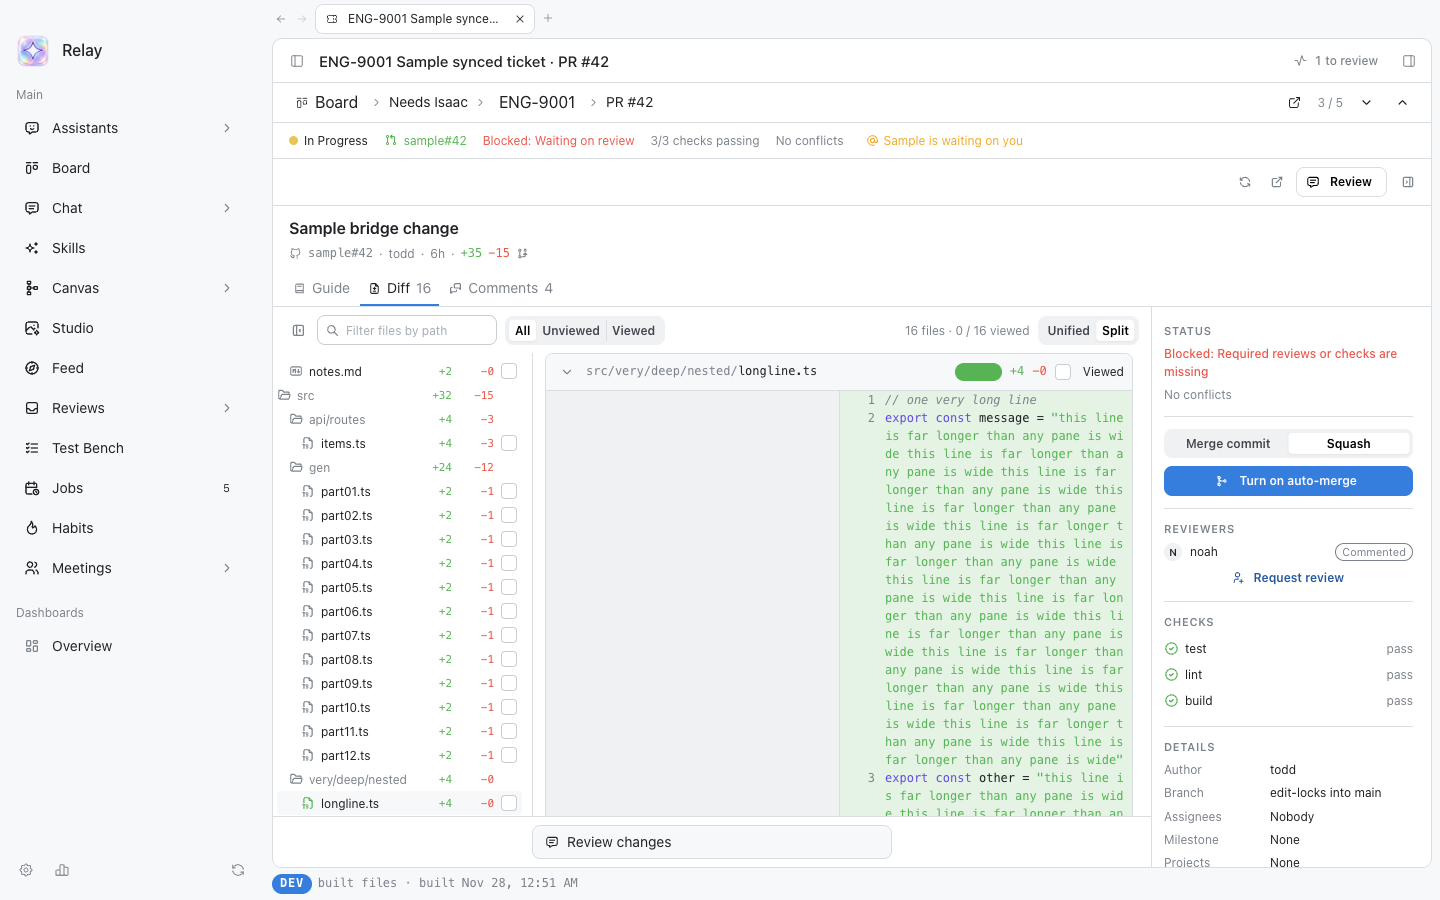
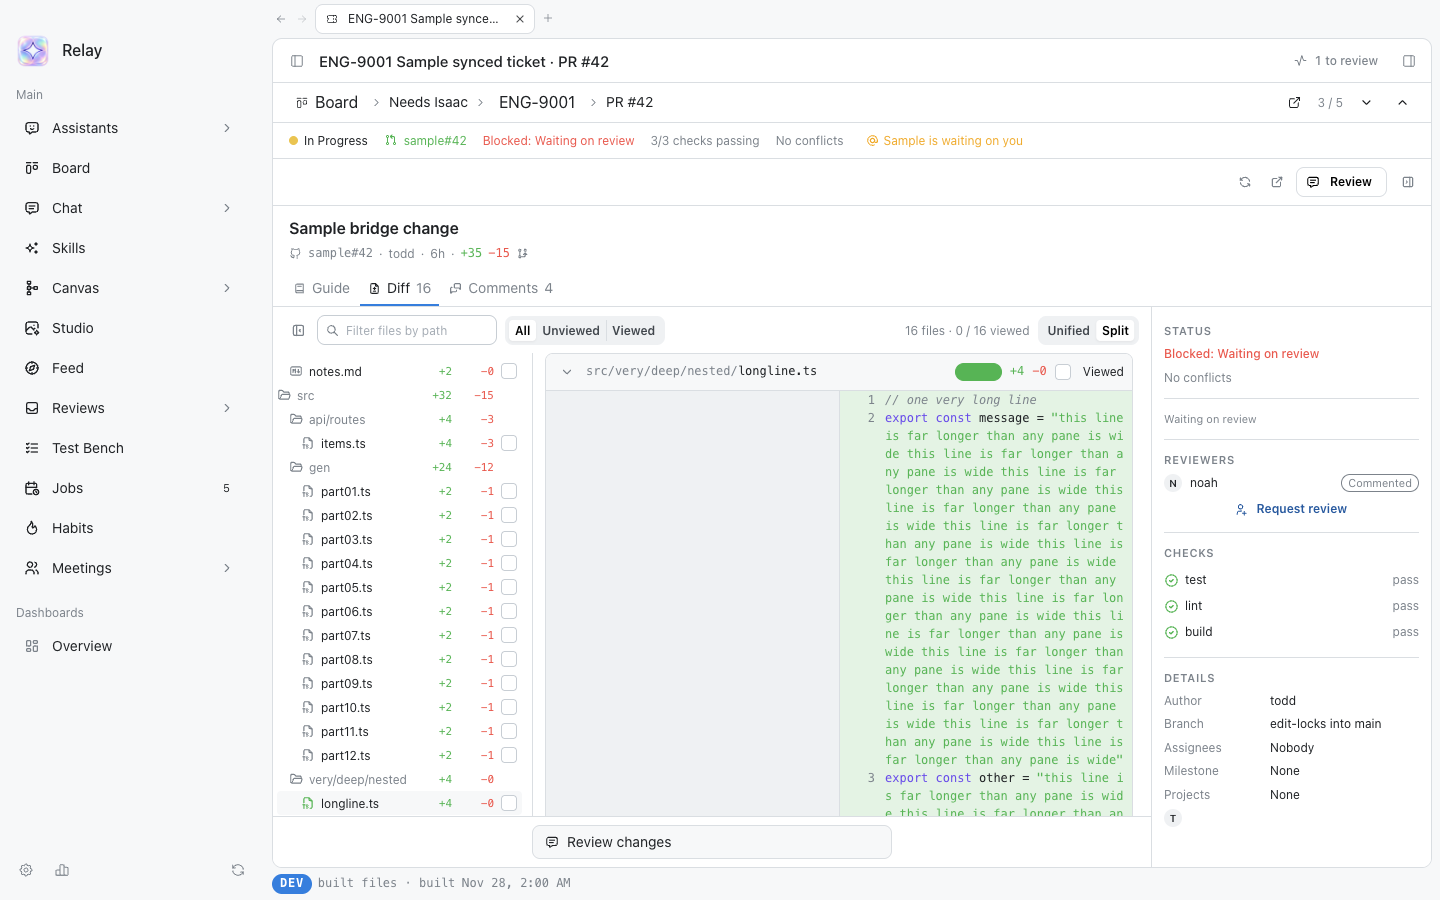
test(e2e): Board proof retaken on the round-5 fixes; the merge box gives the status line's reason
- board-proof: a blocked PR shows the merge box's reason (no auto-merge confirm shot any more), the PR read carries REVIEW_REQUIRED; NOTES updated.
- pr-status: the no-merge reason for a merge state GitHub won't merge uses the status line's own blocker words.

diff --git a/apps/desktop/e2e/board-proof.spec.ts b/apps/desktop/e2e/board-proof.spec.ts
@@ -58,6 +58,7 @@ function proofPr(): Json {
     number: PR_REF.number,
     url: `https://github.example.test/${PR_REF.repo}/pull/${PR_REF.number}`,
     title: 'Sample bridge change',
+    reviewDecision: 'REVIEW_REQUIRED',
     headSha: HEAD,
     checks,
     actions: {
@@ -390,16 +391,10 @@ test('Board, ticket and PR', async ({ app, shell }) => {
     await expect(shell.locator(sel(`review-tab-${t}`))).toBeVisible()
   const rail = shell.locator(sel('review-rail'))
   await expect(rail.locator(sel('pr-status-line'))).toContainText('Blocked')
-  await expect(rail.locator(sel('pr-merge-start'))).toBeVisible()
+  // A blocked PR offers no merge (only an immediate, head-bound merge exists): the box says why.
+  await expect(rail.locator(sel('pr-merge-none'))).toBeVisible()
+  await expect(rail.locator(sel('pr-merge-start'))).toHaveCount(0)
   await shot(shell, 'pr')
-
-  // Merge confirm: names the head and the outcome; Cancel writes nothing.
-  await rail.locator(sel('pr-merge-start')).click()
-  await expect(shell.locator(sel('pr-merge-Head'))).toHaveText(HEAD.slice(0, 7))
-  await expect(shell.locator(sel('pr-merge-confirm'))).toBeVisible()
-  await shot(shell, 'merge-confirm')
-  await shell.getByRole('button', { name: 'Cancel' }).click()
-  await expect(shell.locator(sel('pr-merge-confirm'))).toHaveCount(0)
 
   // Diff: the file tree and the review thread on its line (the first file), then the long line
   // wrapped (the list jumps to its file from the tree; too far down to share one window).

diff --git a/apps/desktop/src/renderer/reviews/review-tabs.test.tsx b/apps/desktop/src/renderer/reviews/review-tabs.test.tsx
@@ -507,12 +507,11 @@ describe('PrView', () => {
     expect(calls('reviews.prCommit')).toHaveLength(0)
   })
 
-  it('never offers auto-merge: a PR GitHub won’t merge right now shows why, with no button', () => {
+  it('never offers auto-merge: a PR GitHub won’t merge right now shows why (the status line’s words), with no button', () => {
     showPr(prOf({ actions: { ...ACTIONS, mergeStateStatus: 'BLOCKED' } }))
     expect(screen.queryByTestId('pr-merge-start')).toBeNull()
-    expect(screen.getByTestId('pr-merge-none')).toHaveTextContent(
-      'Required reviews or checks are missing',
-    )
+    expect(screen.getByTestId('pr-status-line')).toHaveTextContent('Blocked: 1 failing check')
+    expect(screen.getByTestId('pr-merge-none')).toHaveTextContent('1 failing check')
   })
 
   it('hides merge, re-run, request review and reactions without the host’s actions facts', () => {

diff --git a/apps/desktop/src/renderer/tickets/pr-status.ts b/apps/desktop/src/renderer/tickets/pr-status.ts
@@ -237,11 +237,14 @@ const NO_MERGE: ReadonlyArray<(pr: ReviewPr, a: Actions) => string | null> = [
     a.mergeStateStatus === 'DIRTY' ? `Conflicts with ${pr.base}: resolve them first` : null,
   (_, a) =>
     a.mergeQueue.required ? 'This branch merges through a merge queue: add it on GitHub' : null,
-  (_, a) => {
+  (pr, a) => {
     const s = a.mergeStateStatus
     if (MERGES_NOW[s]) return null
+    // The status line's own words (a required review it names), so the box never says it twice differently.
     return (
-      MERGE_STATE_WORDS[s]?.blocked ?? MERGE_STATE_WORDS[s]?.note ?? 'GitHub won’t merge it yet'
+      prStatusOf(prSignalsOfReview(pr)).blocked ??
+      MERGE_STATE_WORDS[s]?.note ??
+      'GitHub won’t merge it yet'
     )
   },
 ]

diff --git a/proof/linear-board/NOTES.md b/proof/linear-board/NOTES.md
@@ -1,7 +1,7 @@
 # Linear-style Board, ticket page and PR page (PR B): before/after proof
 
 - Baseline: `61a5b2e6` (origin/main; app code untouched; only the spec, `e2e/helpers/fake-relay-host.ts`, `e2e/fixtures/tickets/` and `e2e/fixtures/reviews-diff/` were copied in for the run, then removed with `git checkout -- . && git clean -fd apps/desktop/e2e`)
-- Head: after shots taken at `27f45691` (branch `eva/board-desktop`)
+- Head: after shots retaken on the round-5 fixes (branch `eva/board-desktop`, on `main` after #18/#19 merged)
 - Spec: `apps/desktop/e2e/board-proof.spec.ts`, the same file in both phases (`PROOF_PHASE=before|after`, default after; `PROOF_DIR` overrides the root `proof/linear-board`). Assertions that only hold on the branch, and the after-only shots, run only in `after`; the Timeline shots skip on this branch (they belong to the Timeline PR).
 - Mode: Relay Desktop in remote mode (paired `relay-remote.json`) against `FakeRelayHost`, plus a fixture Eva root (`makeEvaFixture`) with five ledger work items (`ENG-9001`..`ENG-9004`, `relay-demo`). The host answers `tickets.*` from `e2e/fixtures/tickets` (`tickets` and `tickets.writes` in after; a fallback test drops `tickets`), `reviews.req` from `e2e/fixtures/reviews-diff` with its PR served as the ticket's PR `example/sample#42` (`reviews.actions` in after), and each ticket's Reviews `linear` read (what the baseline's side panel shows) built from the same board tickets. Every write lands on the fake host's gate; the spec asserts the only writes are the inline comment's `prepare` + `commit` and no PR write. No GitHub, Linear, Claude or omp.
 - Clock: `EVAOS_NOW=2026-11-27T18:00:00Z`, renderer clock fixed to the same instant (Playwright `clock.setFixedTime`); fixture dates relative to it
@@ -18,22 +18,21 @@ Run (before): the same in a `61a5b2e6` worktree with the four paths above copied
 |---|---|---|
 | `board.png` | Today's agent board from the ledger: Queued, Working, Needs Isaac, In review columns, cards with a stage pill; filters for agents, workspaces, grouping, stale. | Linear-style board: synced tickets merged with ledger items (5 items), `Waiting on you 1` filter, `Synced 2m ago` + Refresh, cards with priority, project, label, PR `#42` chips and the `Waiting on you · Sample · 3h` chip; Done hidden. |
 | `ticket.png` | Clicking ENG-9001 opens the side panel over the board: agent strip, Reviews' Linear read, comments, composer and the PR's Conversation tab squeezed below. | The centered ticket page: crumbs `Board > Needs Isaac > ENG-9001`, summary card (waiting reply, summary, footer), description, Resources, Activity, composer; sidebar with Properties, Labels, Project, Pull requests, Related. |
-| `pr.png` | Reviews Detail for `example/sample#42` with Conversation / Files / Checks / Guide and a reviewers/labels rail; no merge. | PR page inside the ticket: status strip, Guide / Diff / Comments (review threads inline), sidebar with status, merge method + `Turn on auto-merge`, reviewers + Request review, checks by run, details. |
+| `pr.png` | Reviews Detail for `example/sample#42` with Conversation / Files / Checks / Guide and a reviewers/labels rail; no merge. | PR page inside the ticket: status strip, Guide / Diff / Comments (review threads inline), sidebar with status `Blocked: Waiting on review` (the same words as the ticket strip) and, since the PR can't merge now, the merge box's reason instead of a button (Relay only merges now, bound to the head; no auto-merge or merge queue), reviewers + Request review, checks by run, details. |
 | `waiting-handled-focus.png` | (none) | Tab from the Waiting chip lands on Mark as handled; its focus ring shows (Settings > Theme > Focus ring switched to `auto` for this shot, since Relay starts with rings off). |
 | `ticket-sidebar-collapsed.png` | (none) | Sidebar folded: the status strip (`In Progress`, `sample#42`, `Blocked: Waiting on review`, `3/3 checks passing`, `No conflicts`, `Sample is waiting on you`) and a wider centered column. |
 | `pr-sidebar-collapsed.png` | (none) | PR sidebar folded: the ticket's strip carries the PR status; Comments take the full width. |
 | `pr-diff-tree.png` | (none) | Diff tab: compacted file tree with +/- and Viewed boxes, split diff, noah's thread (with image) under line 3 of `items.ts`. |
 | `pr-diff-longline.png` | (none) | After clicking `longline.ts` in the tree, the list jumps to it; the long lines wrap with no sideways scroll, tabs and tree stay in view. |
-| `merge-confirm.png` | (none) | `Turn on auto-merge?` names `example/sample#42`, head `0123456`, base `main`, method Squash; Cancel writes nothing. Relay draws modals in its overlay layer, so the shot is the dialog alone. |
 | `inline-thread.png` | (none) | ENG-9101: `flow, as drawn` highlighted in the description after a confirmed inline comment; the thread popover quotes it. |
-| `fallback.png` | (none) | Host without `tickets`: the board from the ledger alone with the reason `The Mini's Relay Host can't sync Linear yet. Update it to see synced tickets.`, `Waiting on you 0`, no waiting chips; the host saw no `tickets.*` frame. |
+| `fallback.png` | (none) | Host without `tickets`: the board from the ledger alone with the reason `The Mini's Relay Host can't sync Linear yet. Update it to see synced tickets.`, `Waiting on you 0`, no waiting chips, agent cards keep their stage pills (`Waiting on Agent`, `Review`, `Waiting on Noah`); the host saw no `tickets.*` frame. |
 
 ## Visual check (every PNG opened)
 
 Fixed in this branch while taking the proof: the ticket PR page now holds its height (tabs and tree stay in view after a tree jump), a gap between the summary card and the description, and PR sidebar check names at the rail's label size.
 
+Fixed in round 5: one time format on the ticket page (`12mo ago`), and one PR status selector, so the ticket strip, PR strip and PR sidebar all say `Blocked: Waiting on review` (old hosts that send no review decision keep `Required reviews or checks are missing`); the merge box gives the same reason.
+
 Seen, not changed:
 - The board scrolls sideways at 1440 px: the In review column is cut at the right edge in both phases.
-- Time labels differ by component for the same fixture comment (`52w` in the summary, `12mo ago` in Activity); fixture comment dates are a year before NOW.
-- The PR status texts come from two sources and differ in wording (strip `Blocked: Waiting on review` from the ticket's PR facts, sidebar `Blocked: Required reviews or checks are missing` from the PR read).
 - The fixture images on ENG-9101 are 1x1 PNGs, shown as dots.
